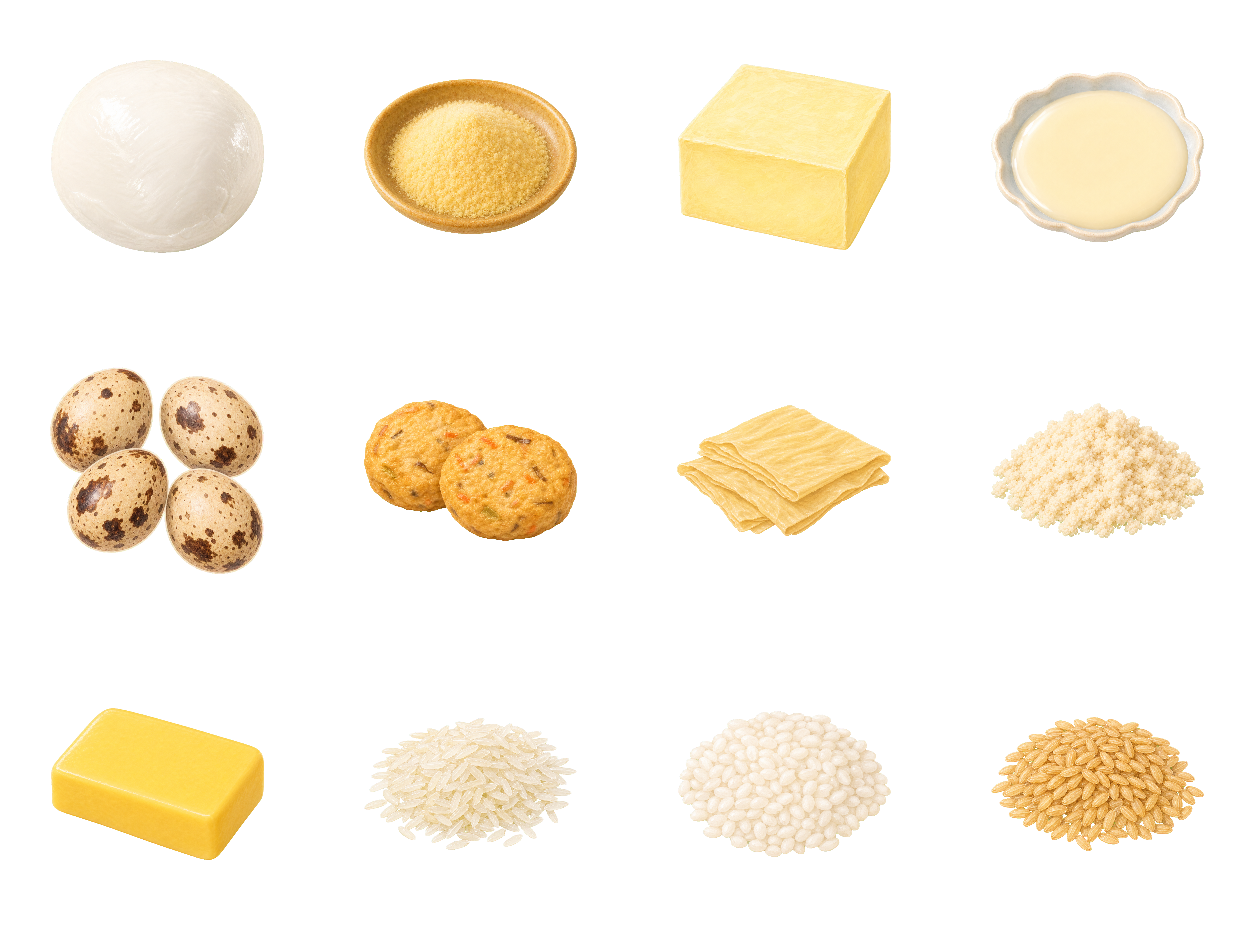
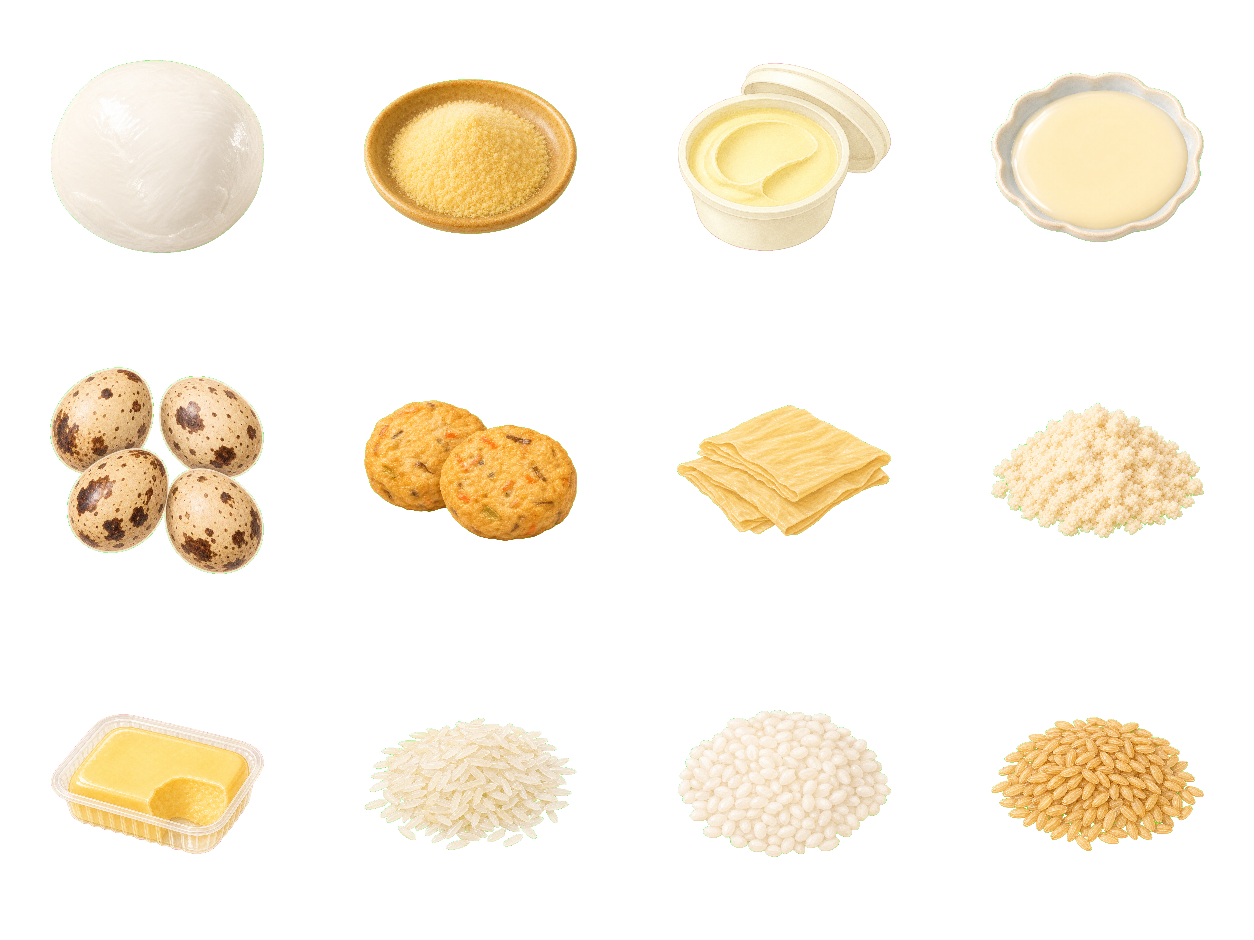
完成イラストを36品へ増やし、抜き残しの「マゼンタの縁」を消す
Codexがr02・r03（麻婆豆腐風〜なすの味噌炒め）を仕上げ、シート19の
バター類の宿題も片付けたので取り込んだ。

★取り込む前に、r01〜r03の全マスに幅1〜2pxのピンクの縁が残っているのを
見つけた。マゼンタ地で描いて抜くと、不透明度は正しく抜けるのに**色が残る**。
白い器の縁がうっすら桃色になっていた。既存のalpha検査（不透明率・緑・
充填率）は3つとも素通りする種類の不具合。

- scripts/despill-magenta.mjs を追加。不透明度は触らず、縁の色だけを
  内側の色で塗り直す（輪郭を痩せさせたくないためアルファは変えない）
- ★判定のしきい値は紫の食材との線引きがすべて。170/45 で書いたら
  なすのハイライト rgb(190,127,182) まで拾ったので 200/60 にした。
  r02のなす（紫2882px）は無傷で、縁147pxだけが直っている
- check-atlas-alpha に判定を足した。**料理シートだけ**が対象。食材側には
  みょうが・赤かぶ・さくらんぼ・しょうがの新芽と本当にマゼンタ寄りの
  ものがあり、止めると誤検出になる（実際6シートが引っかかった）
- わざと50px戻して、検査が止まることを確かめた

- レシピ36品に完成イラスト（r01〜r03）
- 依頼書に「alpha検査の前に despill を通す」節を追加。r04以降で再発しない

なお、宿題のうちバターだけは手つかず。マーガリンと卵豆腐はシート19に
あるが、バターは ingredient-atlas-recipe.png という別シートにいるため。
次のCodexへ場所を明記して渡す。

diff --git a/app.js b/app.js
@@ -2076,7 +2076,31 @@ const RECIPE_ILLUSTRATIONS = {
   napolitan: [0, 2, "r01"],
   "tofu-miso-soup": [1, 2, "r01"],
   "chicken-cabbage-steam": [2, 2, "r01"],
-  "tomato-egg-stir-fry": [3, 2, "r01"]
+  "tomato-egg-stir-fry": [3, 2, "r01"],
+  "mapo-tofu-style": [0, 0, "r02"],
+  "natto-rice": [1, 0, "r02"],
+  "eggplant-mince-stir-fry": [2, 0, "r02"],
+  "chicken-broccoli-pan": [3, 0, "r02"],
+  oyakodon: [0, 1, "r02"],
+  gyudon: [1, 1, "r02"],
+  "fried-rice": [2, 1, "r02"],
+  omurice: [3, 1, "r02"],
+  "soboro-bowl": [0, 2, "r02"],
+  "ginger-pork": [1, 2, "r02"],
+  "chicken-teriyaki": [2, 2, "r02"],
+  "chicken-karaage": [3, 2, "r02"],
+  "beef-pepper-stir-fry": [0, 0, "r03"],
+  "meat-tofu": [1, 0, "r03"],
+  "pork-cabbage-millefeuille": [2, 0, "r03"],
+  "salmon-foil-yaki": [3, 0, "r03"],
+  "salmon-teriyaki": [0, 1, "r03"],
+  "dashimaki-egg": [1, 1, "r03"],
+  "agedashi-tofu": [2, 1, "r03"],
+  "tofu-steak": [3, 1, "r03"],
+  "cheese-omelet": [0, 2, "r03"],
+  "potato-salad": [1, 2, "r03"],
+  "spinach-sesame": [2, 2, "r03"],
+  "eggplant-miso": [3, 2, "r03"]
 };
 
 const INGREDIENT_ILLUSTRATIONS = {

diff --git a/sw.js b/sw.js
@@ -4,7 +4,7 @@
 // このファイル自身の内容から書き込む。中身が変わればこのファイルも変わるので、
 // ブラウザが新しい Service Worker と見なして入れ替え、古いキャッシュを捨てる。
 // 手で番号を上げる必要はない。
-const VERSION = "eb95828a";
+const VERSION = "519e44d5";
 const CACHE = `fridge-leftovers-${VERSION}`;
 
 // index.html が参照するファイル。?v= 付きの実物のパスでないとキャッシュに
@@ -14,8 +14,8 @@ const REFERENCED = [
   "./manifest.json?v=b750de2d",
   "./assets/icons/favicon-32.png?v=a1371f08",
   "./assets/icons/apple-touch-icon.png?v=0db390f0",
-  "./styles.css?v=2e0b6ed9",
-  "./app.js?v=0af21e72"
+  "./styles.css?v=b6250bc8",
+  "./app.js?v=8b9604df"
 ];
 // ここまで自動更新
 

diff --git a/index.html b/index.html
@@ -12,9 +12,9 @@
   <meta name="apple-mobile-web-app-capable" content="yes">
   <meta name="apple-mobile-web-app-status-bar-style" content="default">
   <meta name="apple-mobile-web-app-title" content="冷蔵庫の現在地">
-  <link rel="stylesheet" href="styles.css?v=2e0b6ed9">
+  <link rel="stylesheet" href="styles.css?v=b6250bc8">
   <script src="vendor/tesseract/tesseract.min.js?v=7.0.0" defer></script>
-  <script src="app.js?v=0af21e72" defer></script>
+  <script src="app.js?v=8b9604df" defer></script>
 </head>
 <body>
   <div class="app-shell">

diff --git a/styles.css b/styles.css
@@ -4258,4 +4258,6 @@ input[type="number"] {
   height: 108px;
 }
 
-.recipe-illustration-r01 { background-image: url("assets/recipe-atlas-01.png?v=20260731-1"); }
+.recipe-illustration-r01 { background-image: url("assets/recipe-atlas-01.png?v=20260731-2"); }
+.recipe-illustration-r02 { background-image: url("assets/recipe-atlas-02.png?v=20260731-2"); }
+.recipe-illustration-r03 { background-image: url("assets/recipe-atlas-03.png?v=20260731-2"); }

diff --git a/assets/CODEX_PROMPT_RECIPE_ART.md b/assets/CODEX_PROMPT_RECIPE_ART.md
@@ -49,6 +49,7 @@ node scripts/build-atlas.mjs 07 cheese-toast pizza-toast tuna-toast french-toast
 ### 1枚ごとに通す確認
 
 ```bash
+node scripts/despill-magenta.mjs assets/recipe-atlas-NN.png
 node scripts/check-atlas-alpha.mjs r01
 ```
 
@@ -205,3 +206,19 @@ node scripts/check-atlas-alpha.mjs r01
 
 残り7マスは**空のまま**にする（build-atlas に `_` を渡す。下の手順を見る）。
 
+## ★マゼンタの縁を必ず消すこと（r01〜r03で見つかった）
+
+マゼンタ地で描いて抜くと、**不透明度は正しく抜けるのに色が残る。** 被写体と地の
+境目は両方が混ざった色なので、抜いたあとも幅1〜2pxのピンクの縁になる。
+r01〜r03では1シートあたり600〜1400px出ていて、白い器の縁がうっすら桃色に見えた。
+`check-atlas-alpha` の3つの判定（不透明率・緑・充填率）はすべて素通りする。
+
+**シートを作ったら、alpha検査の前に必ずこれを通す。**
+
+```bash
+node scripts/despill-magenta.mjs assets/recipe-atlas-NN.png
+```
+
+不透明度は触らず、縁の色だけを内側の色で塗り直す。通したあと
+`check-atlas-alpha` が「マゼンタ○px」で止めなければ済んでいる
+（この判定は2026-07-31に追加した。忘れれば止まる）。

diff --git a/PRODUCT_DIRECTION.md b/PRODUCT_DIRECTION.md
@@ -145,8 +145,8 @@
 - 実装済み：おすすめ1件と控えめな2件の出し分け、料理名、所要時間、使う食材、不足食材の表示、3手順アコーディオン、外部誘導（Google・YouTubeの検索リンク）
 - 完成イラスト：**表示側は実装済み（2026-07-31）**。おすすめは108px・ほかの候補は76pxで
   料理名の左に出る。絵が無いレシピは従来どおりの表示（RECIPE_ILLUSTRATIONS に
-  無いだけで壊れない）。絵はCodexが生成中で、r01（12品）を組み込み済み。
-  残り65品はシートが届き次第この表へ足す
+  無いだけで壊れない）。絵はCodexが生成中で、r01〜r03（36品）を組み込み済み。
+  残り41品はシートが届き次第この表へ足す
 
 ## 栄養情報
 
